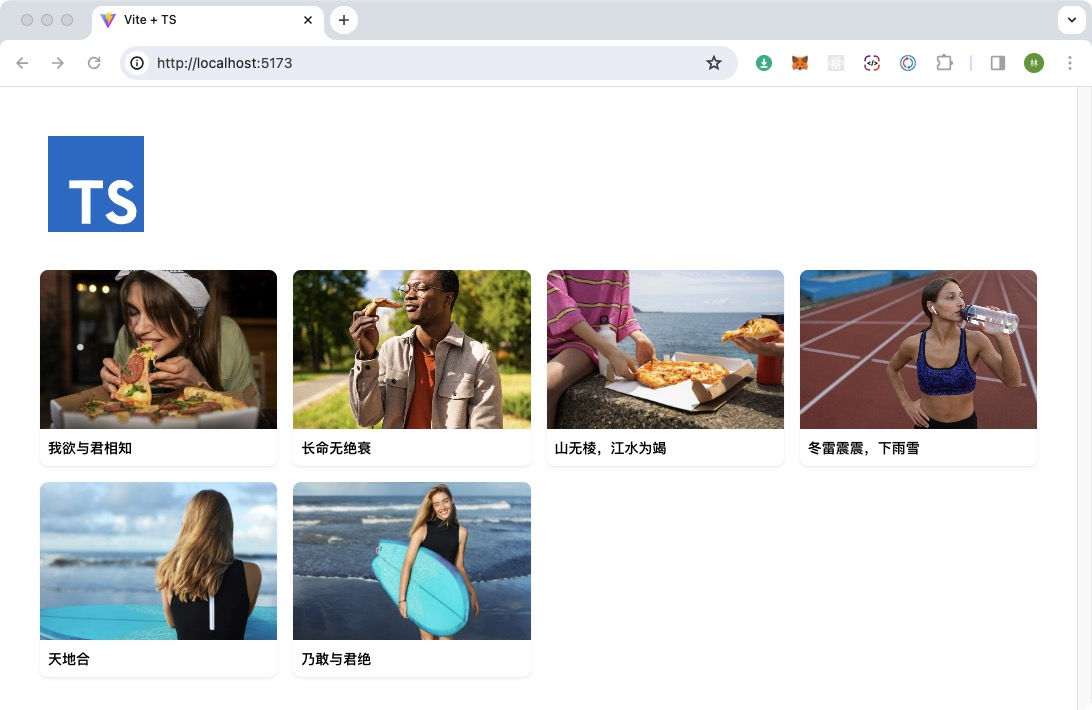
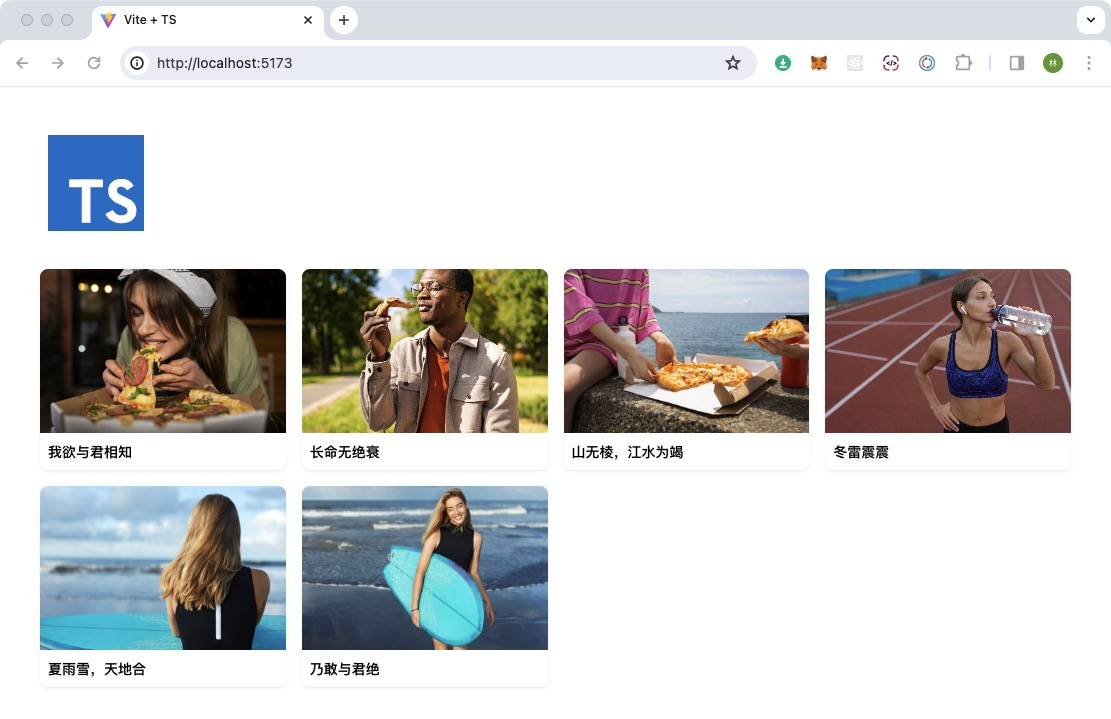
readme 修改，文字错误修改

diff --git a/src/main.ts b/src/main.ts
@@ -56,7 +56,7 @@ document.querySelector<HTMLDivElement>("#app")!.innerHTML = `
         </div>
 
         <div class="des-con">
-          <span>冬雷震震，下雨雪</span>
+          <span>冬雷震震，夏雨雪</span>
         </div>
       </div>
     </div>

diff --git a/Readme.md b/Readme.md
@@ -1,10 +1,12 @@
 ![Image 示例](https://github.com/vinistudy/autoImglist/blob/main/index.jpg)
+
+![Image 示例](https://github.com/vinistudy/autoImglist/blob/main/tauri.jpg)
+
 ### 安装
 
 pnpm install
 
 pnpm run dev
-
 
 ### tauri
 
